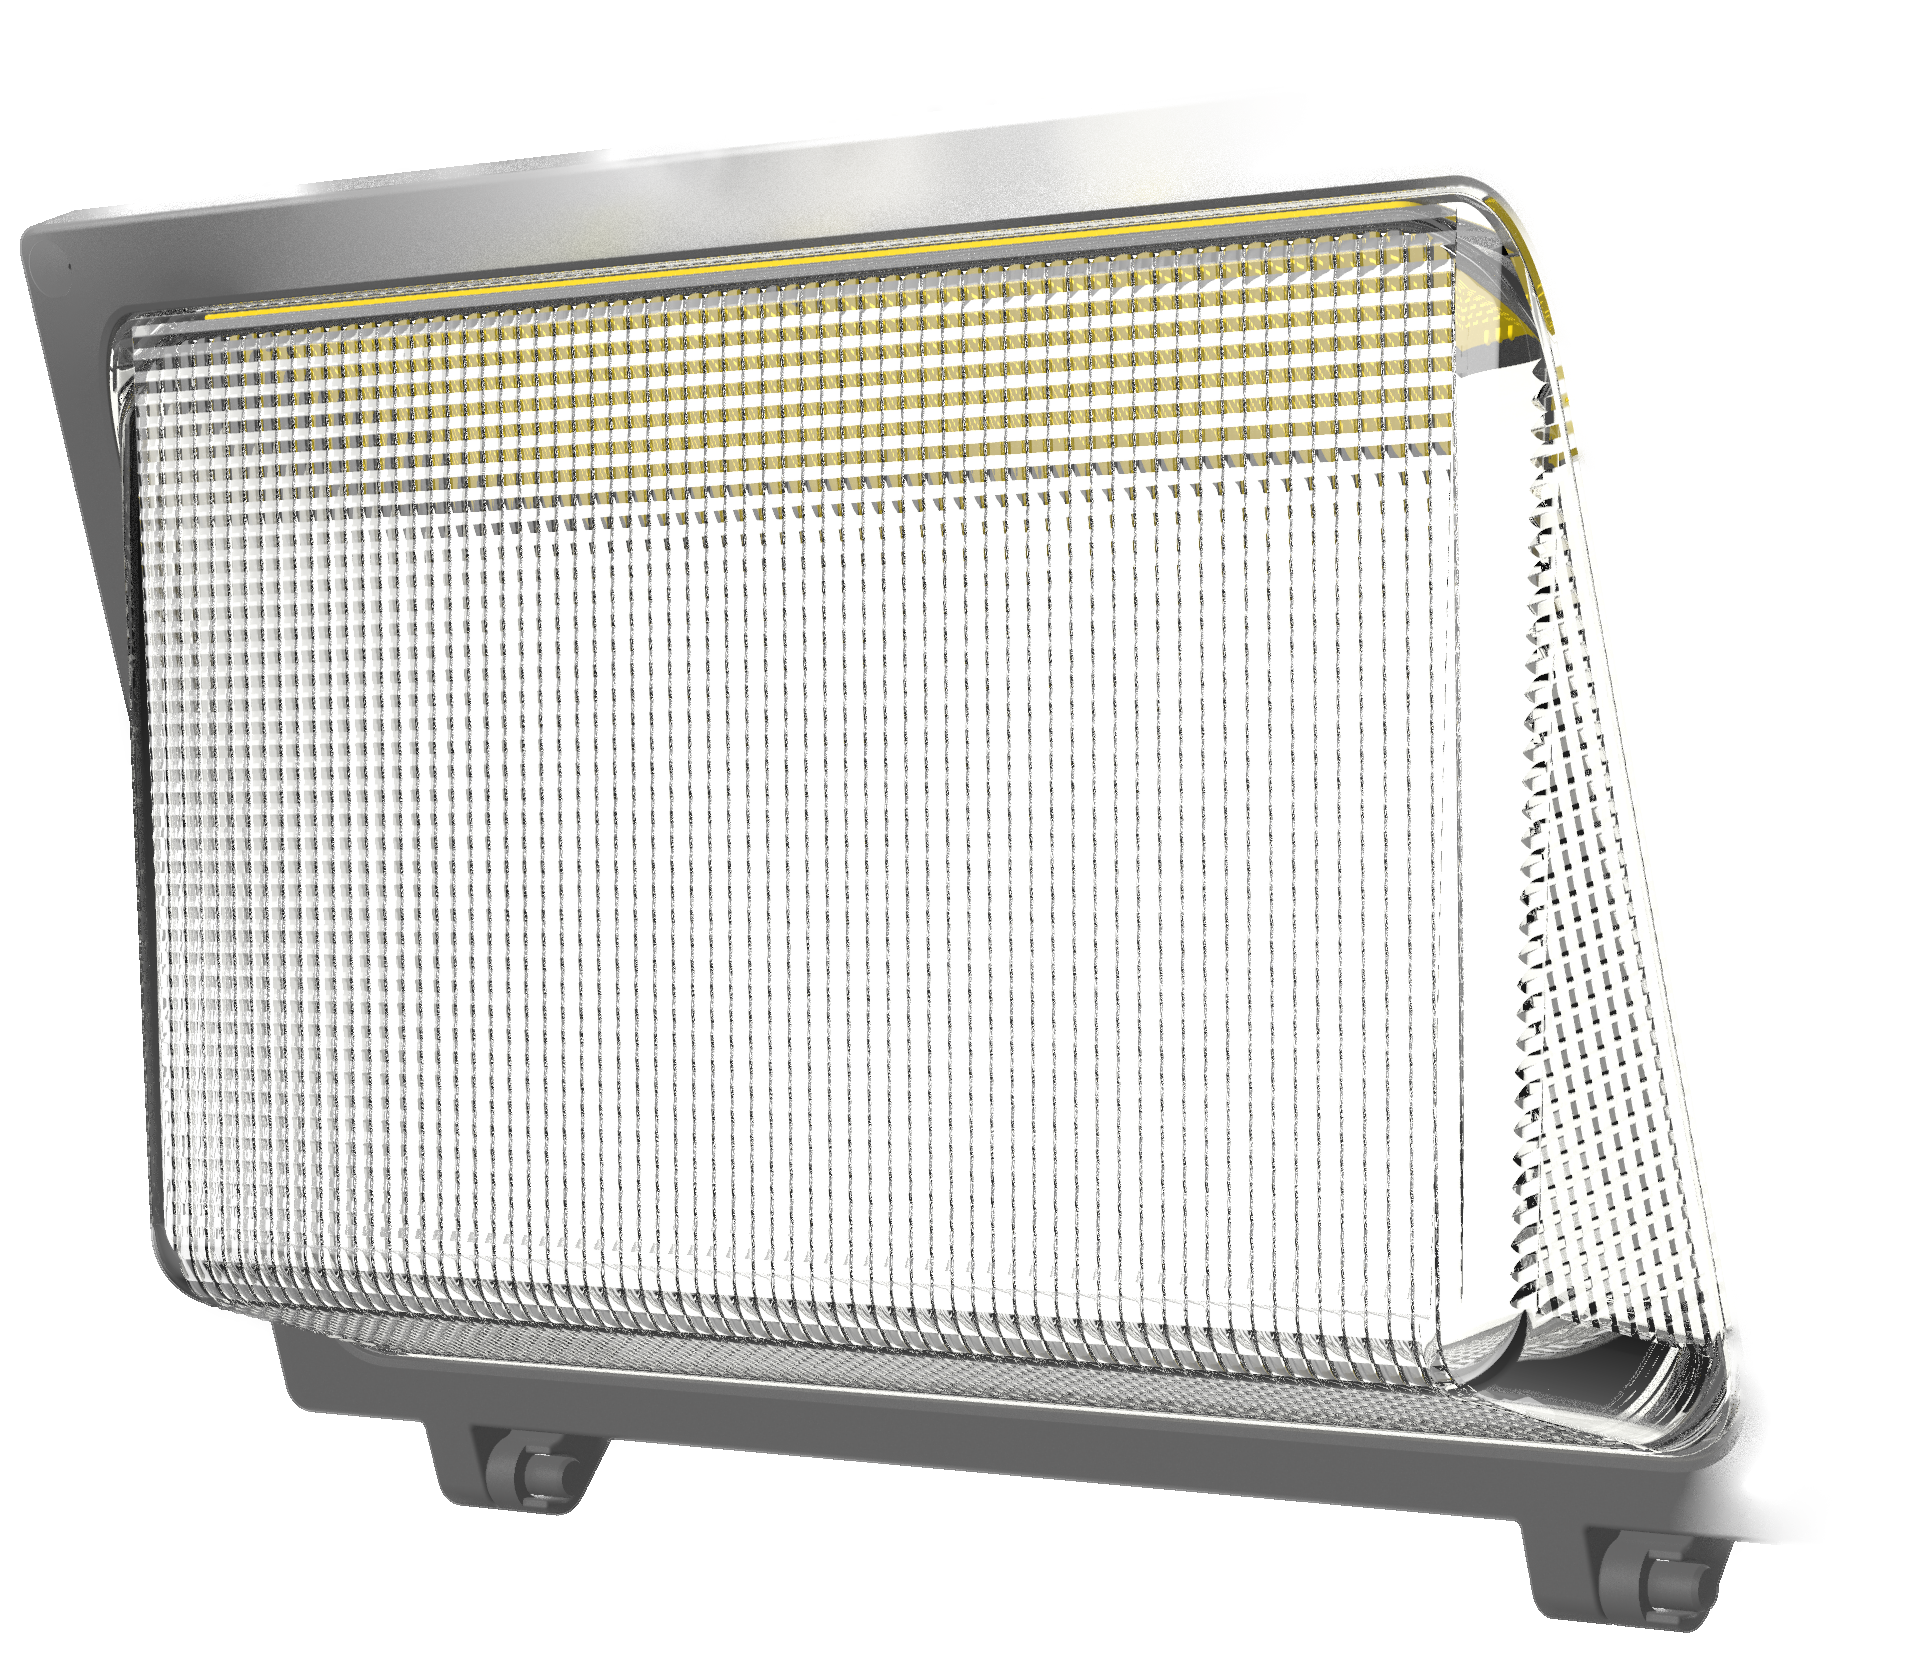
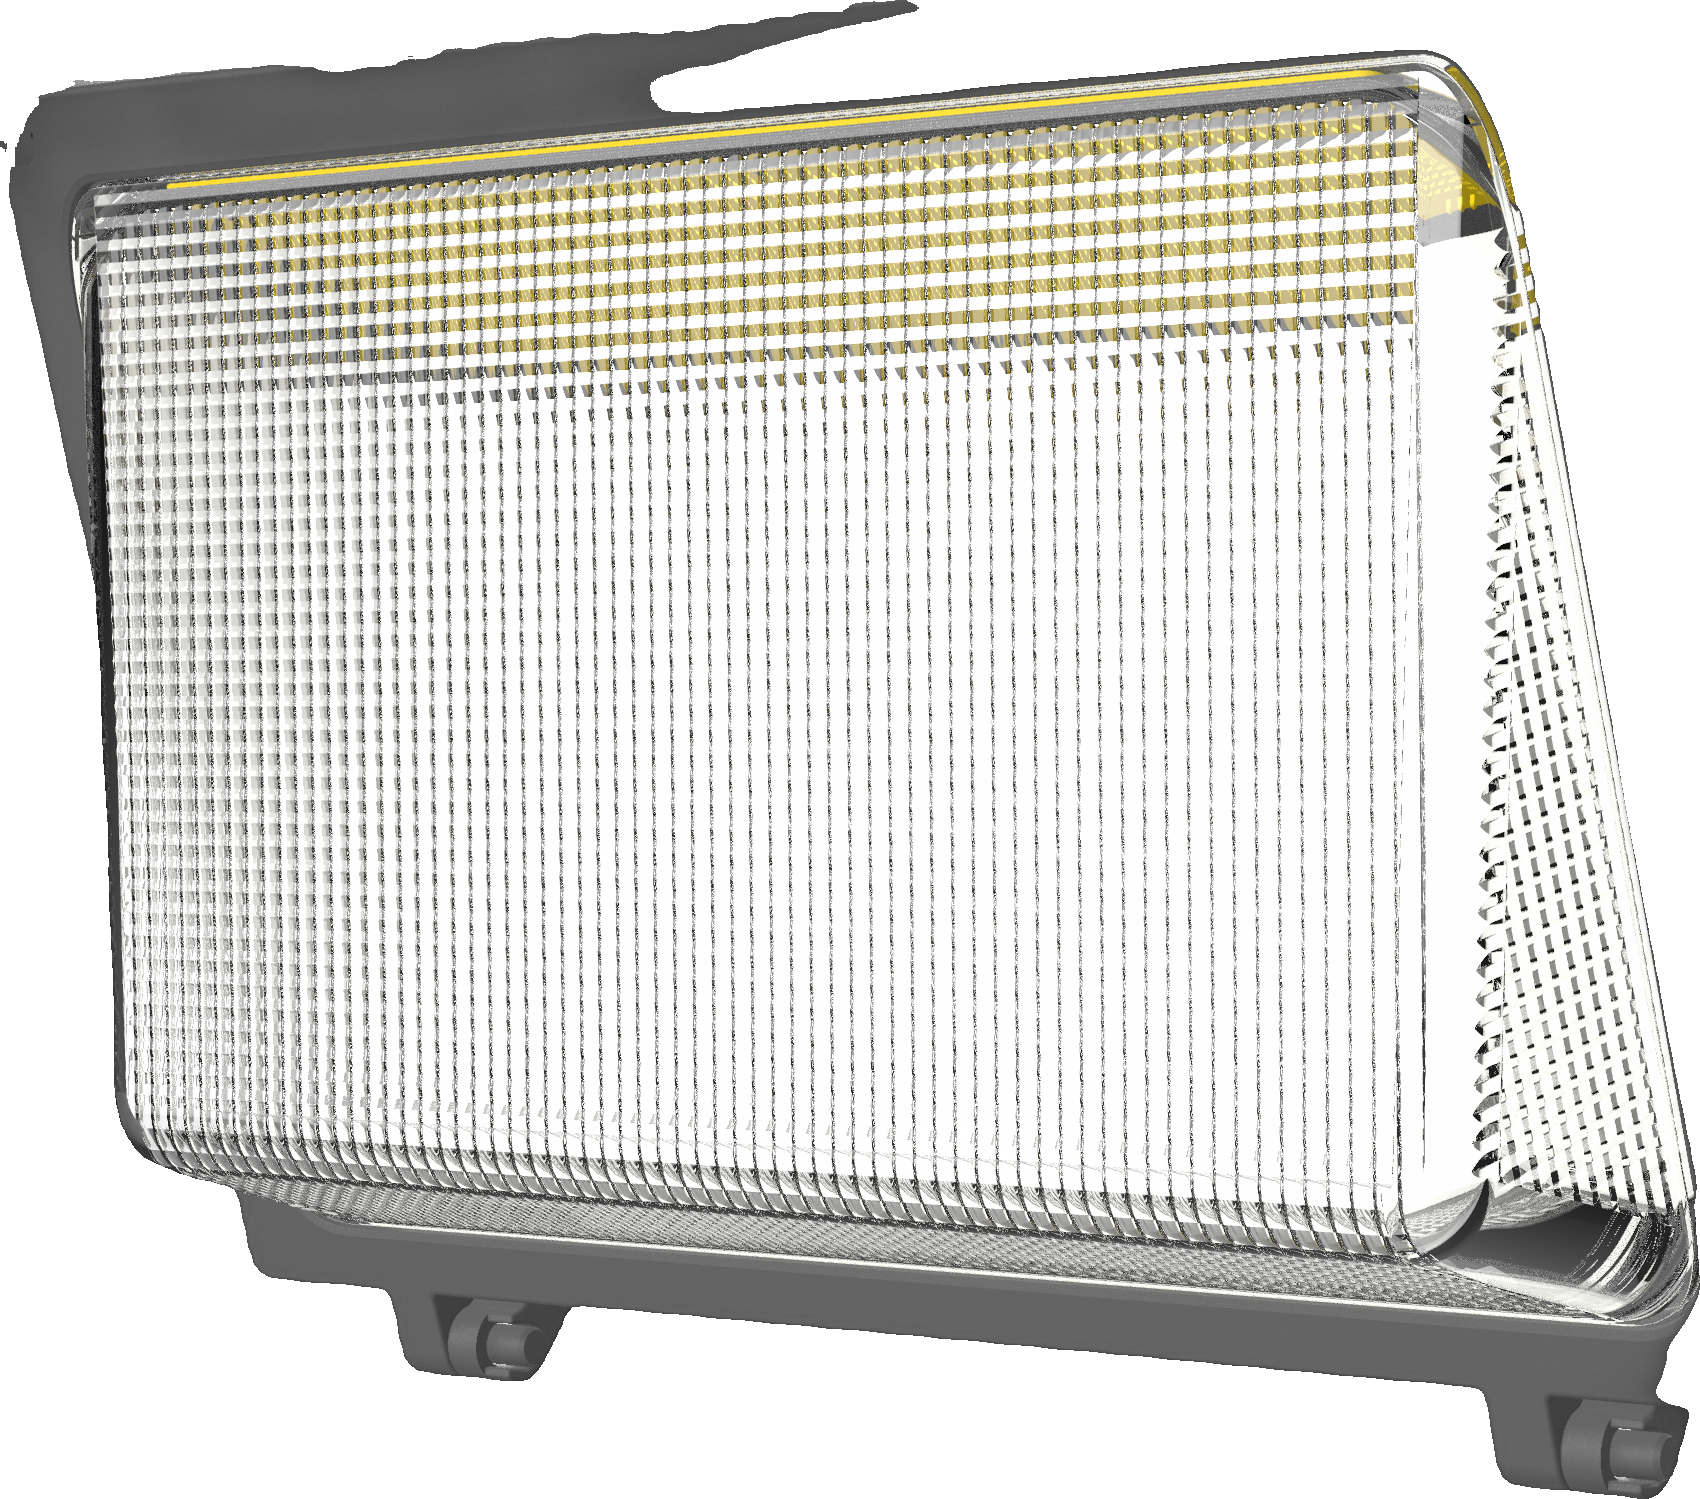
fix: replace Guardian family card image with clean product shot

diff --git a/scripts/replace_guardian_image_v2.py b/scripts/replace_guardian_image_v2.py
@@ -1,0 +1,31 @@
+"""Replace guardian.png with background-removed version, with alpha cleanup."""
+from rembg import remove
+from PIL import Image
+import numpy as np
+import io
+
+src = "/home/ubuntu/upload/Generatedimage.png"
+dst = "/home/ubuntu/alg-website/public/images/family-cards/luxoarch/guardian.png"
+
+with open(src, "rb") as f:
+    raw = f.read()
+
+result = remove(raw)
+img = Image.open(io.BytesIO(result)).convert("RGBA")
+
+# Aggressive alpha cleanup: push semi-transparent pixels to fully transparent
+arr = np.array(img)
+alpha = arr[:, :, 3]
+# Any pixel with alpha < 200 becomes fully transparent
+arr[alpha < 200, 3] = 0
+# Any pixel with alpha >= 200 becomes fully opaque
+arr[alpha >= 200, 3] = 255
+img = Image.fromarray(arr, "RGBA")
+
+# Trim transparent border
+bbox = img.getbbox()
+if bbox:
+    img = img.crop(bbox)
+
+img.save(dst, "PNG")
+print(f"Saved {img.size} → {dst}")

diff --git a/scripts/replace_guardian_image.py b/scripts/replace_guardian_image.py
@@ -1,0 +1,22 @@
+"""Replace guardian.png with background-removed version of the new source image."""
+from rembg import remove
+from PIL import Image
+import io, shutil
+
+src = "/home/ubuntu/upload/Generatedimage.png"
+dst = "/home/ubuntu/alg-website/public/images/family-cards/luxoarch/guardian.png"
+
+with open(src, "rb") as f:
+    raw = f.read()
+
+result = remove(raw)
+img = Image.open(io.BytesIO(result)).convert("RGBA")
+
+# Trim transparent border
+bbox = img.getbbox()
+if bbox:
+    img = img.crop(bbox)
+
+# Save with transparency
+img.save(dst, "PNG")
+print(f"Saved {img.size} → {dst}")
